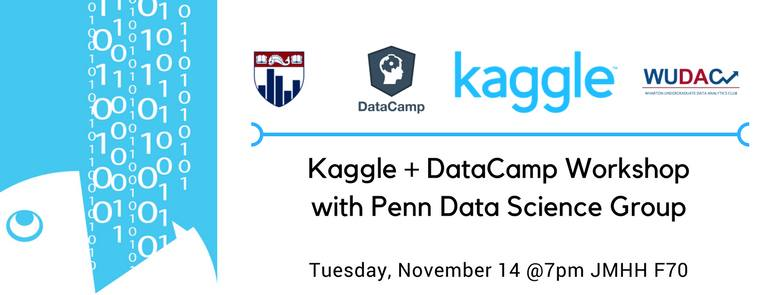
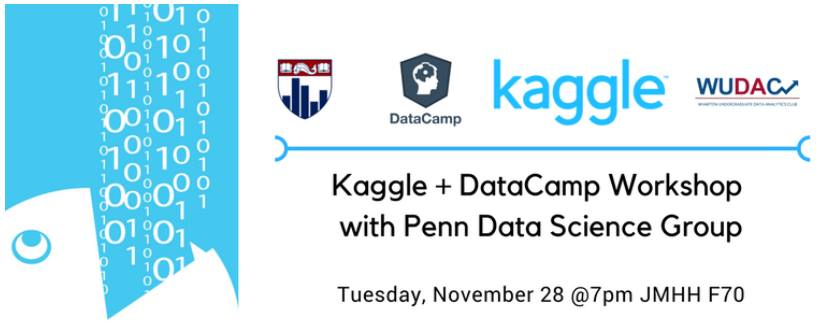
adding workshop

diff --git a/events/_posts/2017-11-28-kaggle-workshop.md b/events/_posts/2017-11-28-kaggle-workshop.md
@@ -1,7 +1,7 @@
 ---
 layout: event
 title: Kaggle + DataCamp Workshop
-upcoming: false
+upcoming: true
 time: "7:00 PM - 8:00 PM"
 location: JMHH F70, Jon M. Huntsman Hall
 image: /images/events/kaggle_datacamp_workshop.jpg
